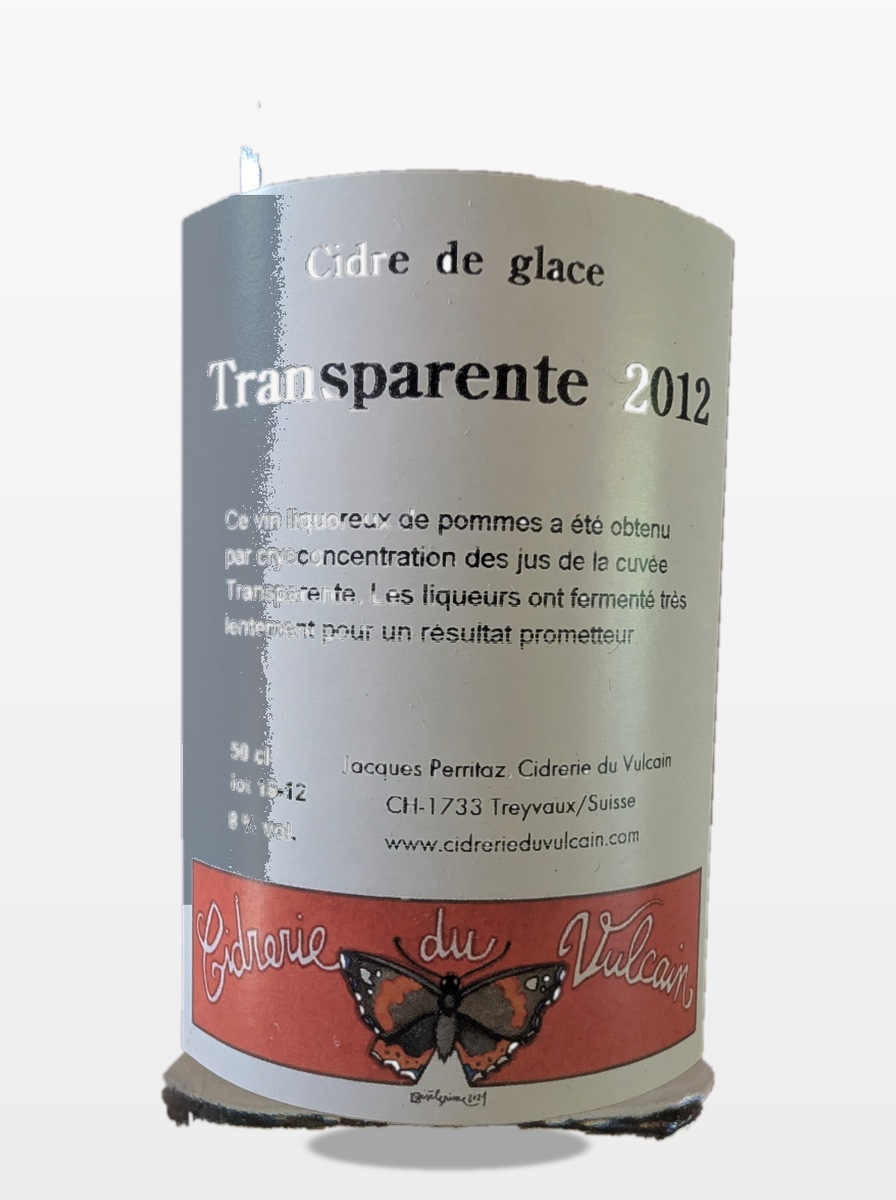
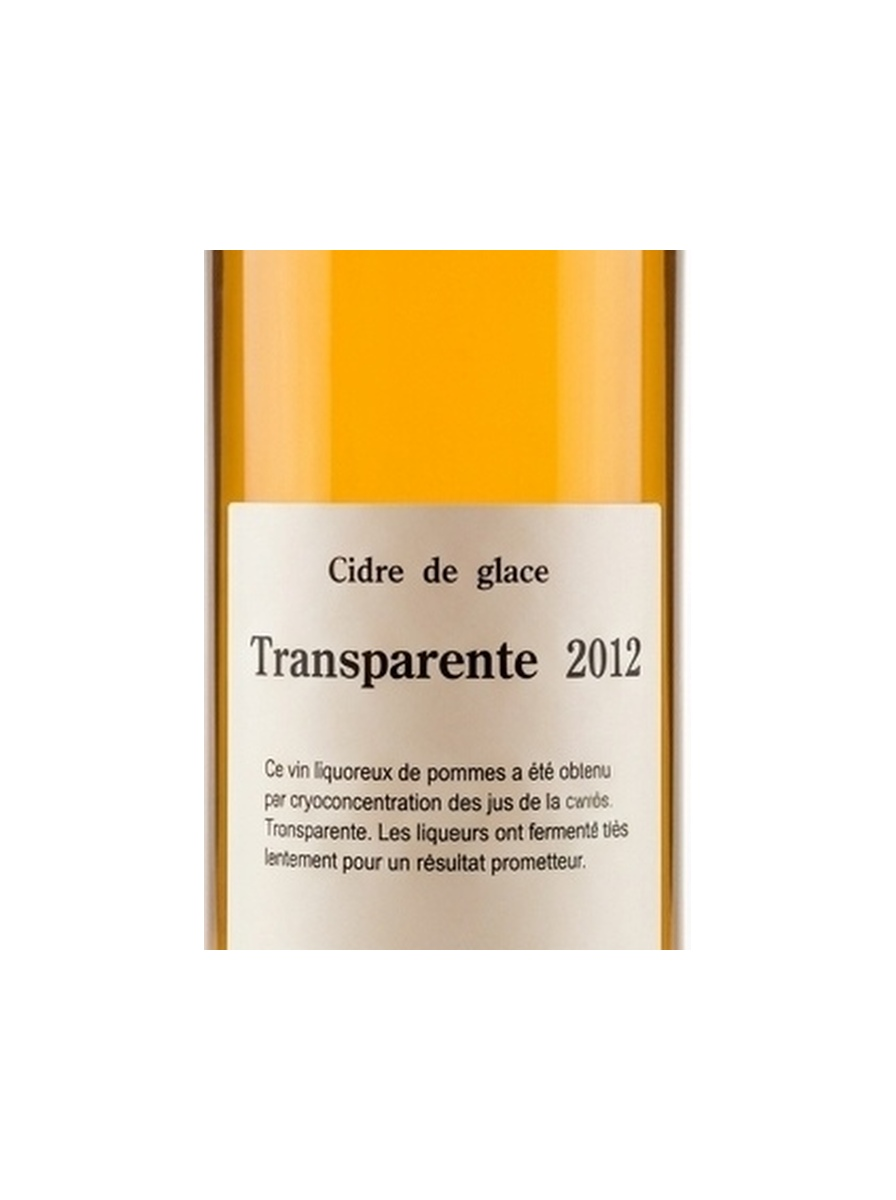
feat(photos): ajout des packshots studio pour Cidre Glace 2012 (#32) et La Lande Foy 2022 (#15)

diff --git a/lib/cuvees-gallery.ts b/lib/cuvees-gallery.ts
@@ -36,8 +36,8 @@ export const CUVEE_GALLERY_MAP: Record<string, GalleryImage[]> = {
     { url: '/images/cuvees/trois-pepins-2023-etiquette-derriere.jpg', label: 'Contre-étiquette' },
   ],
   'lande-foy-2022': [
+    { url: '/images/cuvees/lande-foy-2022-transparent.png', label: 'Bouteille' },
     { url: '/images/cuvees/lande-foy-2022-duo.jpg', label: 'Duo face & dos' },
-    { url: '/images/cuvees/lande-foy-2022.jpg', label: 'Bouteille' },
     { url: '/images/cuvees/lande-foy-2022-etiquette-devant.jpg', label: 'Étiquette' },
     { url: '/images/cuvees/lande-foy-2022-etiquette-derriere.jpg', label: 'Contre-étiquette' },
   ],
@@ -116,7 +116,7 @@ export const CUVEE_GALLERY_MAP: Record<string, GalleryImage[]> = {
     { url: '/images/cuvees/trois-pepins-2010-etiquette-derriere.jpg', label: 'Contre-étiquette' },
   ],
   'cidre-glace-2012': [
-    { url: '/images/cuvees/cidre-glace-2012.jpg', label: 'Bouteille' },
+    { url: '/images/cuvees/cidre-glace-2012-transparent.png', label: 'Bouteille' },
     { url: '/images/cuvees/cidre-glace-2012-etiquette-devant.jpg', label: 'Étiquette panoramique' },
   ],
 }

diff --git a/scripts/apply-cuvees-images-to-db.js b/scripts/apply-cuvees-images-to-db.js
@@ -25,7 +25,7 @@ const CUVEES_MAPPING = [
   { art: 33, slug: 'botsi-de-glace-2017', name: 'Botsi de glace 2017' },
 ]
 
-const VALIDATED_ARTS = [13, 25, 33]
+const VALIDATED_ARTS = [13, 15, 25, 32, 33]
 
 async function main() {
   console.log('=== Mise à jour des photos des cuvées validées dans PostgreSQL ===')
